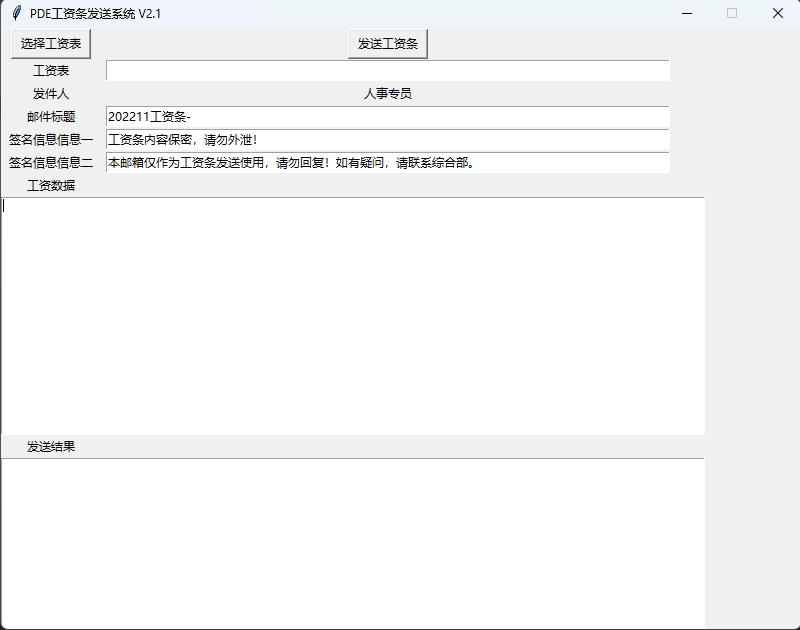
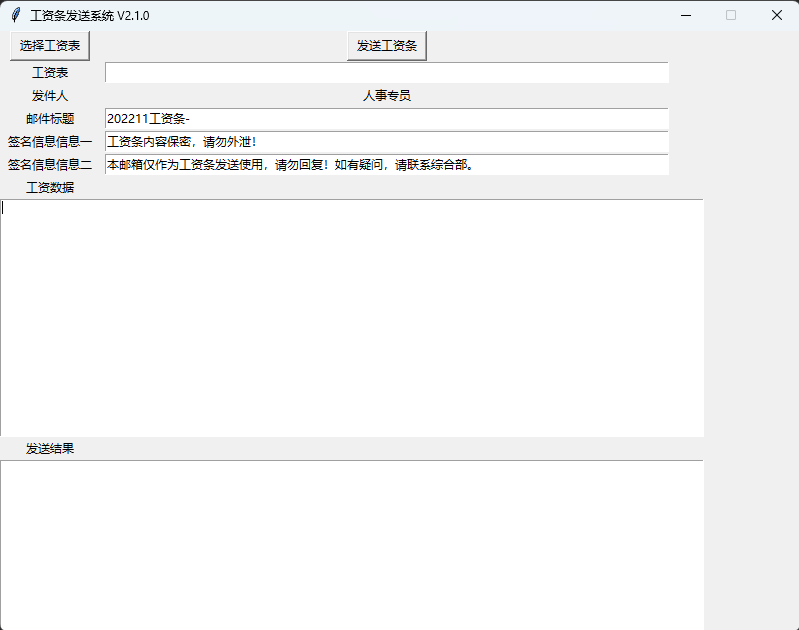
更新截图和版本号

diff --git a/src/mainform.py b/src/mainform.py
@@ -28,7 +28,7 @@ class MY_GUI():
 
     # 设置窗口
     def set_init_window(self):
-        self.init_window_name.title("PDE工资条发送系统 V2.1")  # 窗口名
+        self.init_window_name.title("工资条发送系统 V2.1.0")  # 窗口名
         # self.init_window_name.geometry('320x160+100+100')                         #290 160为窗口大小，+10 +10 定义窗口弹出时的默认展示位置
         self.init_window_name.geometry('800x600+10+10')
         # self.init_window_name["bg"] = "pink"                                    #窗口背景色，其他背景色见：blog.csdn.net/chl0000/article/details/7657887
